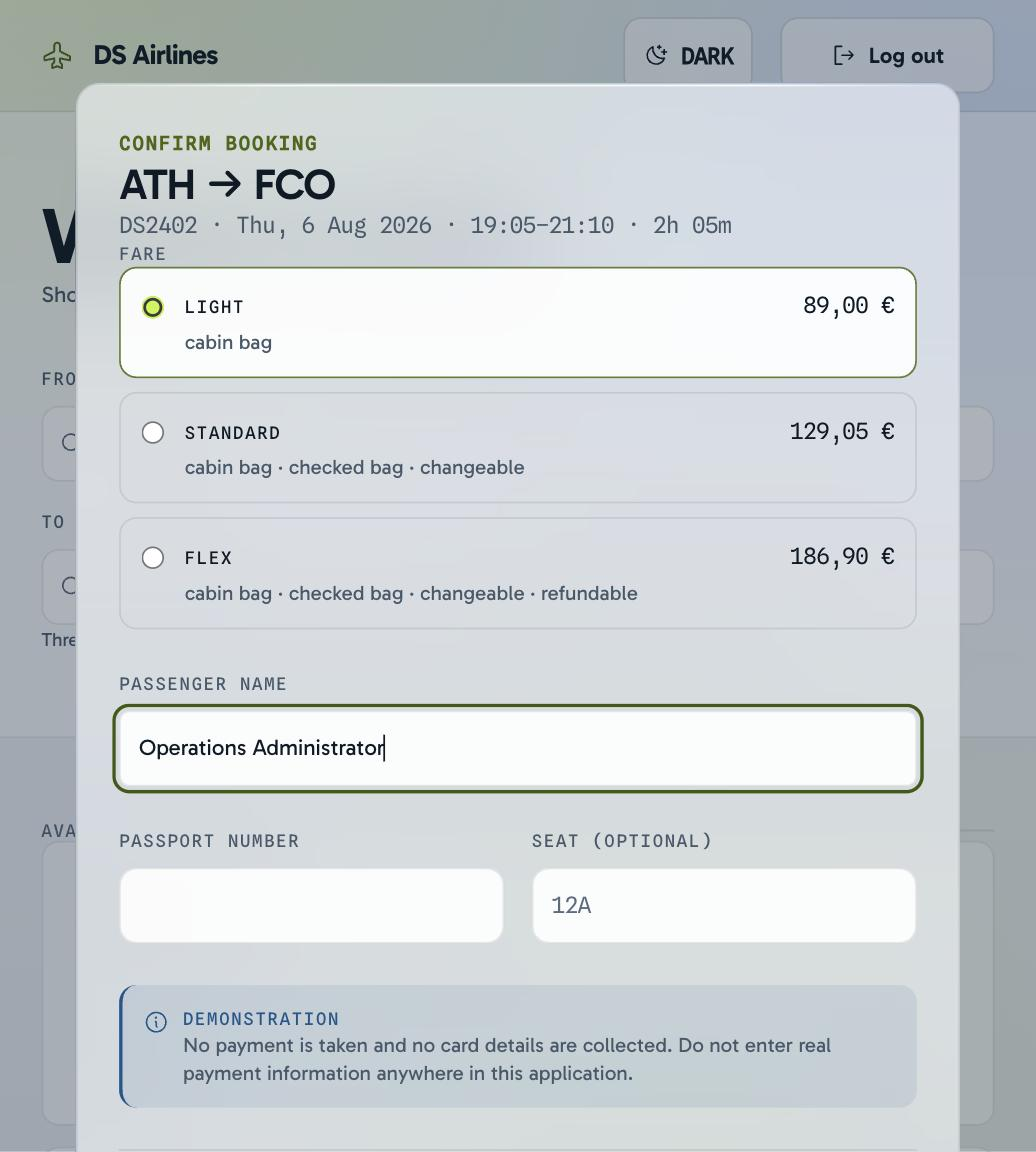
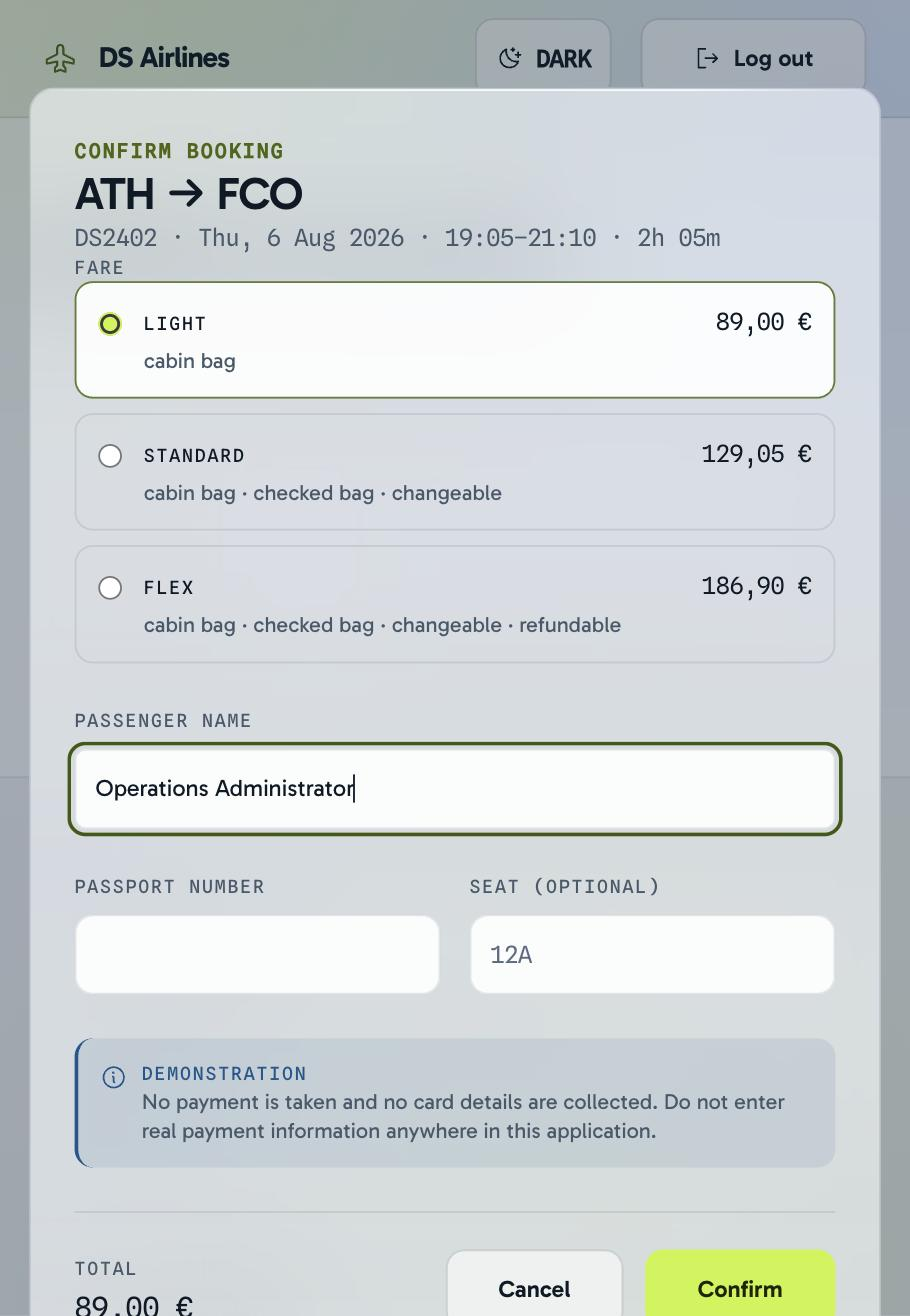
fix(design): call the design system Atlas, fix a fake mobile screenshot
Two problems flagged after the swap:

- Every doc and comment called the design system "VANE" (its vendored
  files' internal codename) instead of "Atlas" (its actual name, and
  the name of the source folder itself). Atlas is now primary
  throughout; the two byte-identical vendored files (tokens.css,
  base.css) still say VANE in their own header comments, which is
  correctly left alone — that's the vendor's file, not this product's
  prose — and both README files now say so explicitly.
- docs/images/mobile-login.jpg was a desktop screenshot: 1568x726,
  pixel-identical to login-light.jpg. The browser automation used to
  capture it reported success but silently never resized the viewport.
  Re-captured all three mobile shots with window.innerWidth verified
  directly rather than trusting the tool's return value; all three are
  now a consistent 910x1316, genuinely narrow.

diff --git a/frontend/src/index.css b/frontend/src/index.css
@@ -1,8 +1,8 @@
 /* ══════════════════════════════════════════════════════════
    DS Airlines — visual layer
 
-   The identity is VANE, aka Atlas (see src/design-system/README.md). This
-   file bridges VANE's semantic tokens into Tailwind's @theme so they are
+   The identity is Atlas (see src/design-system/README.md). This file
+   bridges Atlas's semantic tokens into Tailwind's @theme so they are
    reachable as utilities, and defines the shapes this product repeats.
 
    The token layer itself is imported by main.tsx, before this file, and
@@ -11,7 +11,7 @@
    not wherever Tailwind's @import happens to nest it.
 
    There are no colour, type or spacing values defined here. A hex literal
-   anywhere in this application is a bug — the value belongs in VANE's
+   anywhere in this application is a bug — the value belongs in Atlas's
    tokens.css, and it must be reached through the semantic layer, never a
    primitive (--navy-900, --lime-400, and so on).
    docs/brand/contrast_check.py reads the palette straight out of
@@ -44,7 +44,7 @@
   --color-action-fg: var(--text-on-accent);
   --color-accent: var(--text-accent);
   /* Not --fill-accent: solid chartreuse on chartreuse-adjacent pale grounds
-     measures 1.16:1 in the light theme — invisible as a border. VANE ships
+     measures 1.16:1 in the light theme — invisible as a border. Atlas ships
      --border-accent for exactly this (a lower-alpha accent tint) precisely
      because reaching for the fill token as a line is the mistake its own
      readme calls out. docs/brand/contrast_check.py catches this pair. */
@@ -83,18 +83,18 @@
   --radius-overlay: var(--r-lg);
   --radius-pill: var(--r-pill);
 
-  /* Spacing is deliberately NOT bridged. VANE's grid runs on a 1.75px unit
+  /* Spacing is deliberately NOT bridged. Atlas's grid runs on a 1.75px unit
      (--sp-1 = 3.5px) rather than Tailwind's 4px steps, and aliasing only
      some of it is how AF's equivalent scale drifted out of order here
      before. Utilities use Tailwind's scale; the ds-* classes below reach
-     for VANE's named steps directly via var(--sp-N), which is where the
+     for Atlas's named steps directly via var(--sp-N), which is where the
      difference actually matters. */
 }
 
 @layer components {
   /* Split-panel editorial ground. Full-bleed glass rather than a flat
      fill — the bloom painted behind <body> shows through the blur, which
-     is the effect VANE's readme calls the whole visual premise. */
+     is the effect Atlas's readme calls the whole visual premise. */
   .ds-editorial {
     background: var(--surface-weak);
     backdrop-filter: var(--blur-lg);
@@ -149,7 +149,7 @@
     font-family: var(--f-ui);
     font-size: var(--t-13);
     padding: var(--sp-2) var(--sp-3);
-    /* 44px minimum target — VANE's touch floor. */
+    /* 44px minimum target — Atlas's touch floor. */
     min-height: var(--touch);
     transition: border-color var(--d-1) var(--ease);
   }
@@ -201,7 +201,7 @@
 
 /* Unlayered, deliberately — see design-system/tokens/index.css for why
    base.css's h1/h2/h3 rule is unlayered too. The one large display size
-   VANE defines; used once per view, since the jump from a 10px label
+   Atlas defines; used once per view, since the jump from a 10px label
    straight to 46px is the system's signature. A class selector (0,1,0)
    beats an element selector (0,0,1) with no layer tricks required. */
 .ds-hero {

diff --git a/frontend/src/design-system/overrides.css b/frontend/src/design-system/overrides.css
@@ -1,13 +1,13 @@
 /* ══════════════════════════════════════════════════════════
-   Product-level corrections to the vendored VANE token layer.
+   Product-level corrections to the vendored Atlas token layer.
 
    tokens.css and base.css are byte-identical to source and must stay that
    way, so corrections live here instead. Everything below is a candidate to
-   be upstreamed into VANE; when it is, delete it from this file.
+   be upstreamed into Atlas; when it is, delete it from this file.
 
-   VANE's own readme measures its status-text pairs against each colour's
+   Atlas's own readme measures its status-text pairs against each colour's
    *own* tint background, same as this file does — but the measurements
-   there were taken at the tint alphas VANE ships, which land three status
+   there were taken at the tint alphas Atlas ships, which land three status
    pairs under AA once actually composited in this product's dark or light
    theme (docs/brand/contrast_check.py catches this in CI). Each fix below
    only lowers the tint's alpha, not the text colour — a paler background
@@ -18,19 +18,19 @@
    ══════════════════════════════════════════════════════════ */
 
 [data-theme="dark"] {
-  /* VANE: rgba(255, 107, 107, 0.13) under --text-danger (#FF6B6B) measures
+  /* Atlas: rgba(255, 107, 107, 0.13) under --text-danger (#FF6B6B) measures
      3.73:1 on the cancelled badge and error banners — under the 4.5:1 AA
      floor. --red-400 is lighter than the ground it sits on, so a *fainter*
      tint (closer to --ground) raises contrast rather than a stronger one.
      Lowered to 0.06 for 4.78:1. */
   --tint-danger: rgba(255, 107, 107, 0.06);
 
-  /* VANE: rgba(127, 196, 255, 0.13) under --text-info (#7FC4FF) measures
+  /* Atlas: rgba(127, 196, 255, 0.13) under --text-info (#7FC4FF) measures
      4.48:1 on the booking dialog's demonstration notice — just under AA.
      Same direction as above: lowered to 0.10 for 5.10:1. */
   --tint-info: rgba(127, 196, 255, 0.10);
 
-  /* VANE: rgba(212, 255, 79, 0.34) measures 3.05:1 against a glass panel
+  /* Atlas: rgba(212, 255, 79, 0.34) measures 3.05:1 against a glass panel
      (the selected-fare card sits inside the booking dialog, itself a glass
      panel) — technically over the 3:1 floor for SC 1.4.11, but by 0.05
      with no room for a rounding difference. Raised to 0.40 for 3.50:1. */
@@ -38,13 +38,13 @@
 }
 
 [data-theme="light"] {
-  /* VANE: rgba(16, 121, 75, 0.12) under --text-success (#10794B) measures
+  /* Atlas: rgba(16, 121, 75, 0.12) under --text-success (#10794B) measures
      4.50:1 on the confirmed booking badge — right at the floor, not over
      it. Lowered to 0.09 for 4.62:1, keeping headroom rather than shipping a
      value CI would flag on the next rounding difference. */
   --tint-success: rgba(16, 121, 75, 0.09);
 
-  /* VANE: rgba(120, 160, 10, 0.42) measures 1.37:1 against the page ground
+  /* Atlas: rgba(120, 160, 10, 0.42) measures 1.37:1 against the page ground
      and 1.45:1 against a glass panel — the selected-fare card's border is
      close to invisible in the light theme, an SC 1.4.11 failure. The base
      hue is too pale to reach 3:1 at any alpha against a ground this light

diff --git a/frontend/src/context/ThemeContext.tsx b/frontend/src/context/ThemeContext.tsx
@@ -13,13 +13,13 @@ const ThemeContext = createContext<ThemeContextType | undefined>(undefined);
 const STORAGE_KEY = 'ds-theme';
 
 /**
- * VANE ships both themes token-complete and defaults to dark. Nothing
+ * Atlas ships both themes token-complete and defaults to dark. Nothing
  * exposed a switch, so the light theme was unreachable — and unreachable
  * styling is where accessibility regressions hide, which is exactly what
  * docs/brand/contrast_check.py checks for.
  *
  * Resolution order: an explicit stored choice, then the operating system's
- * preference, then VANE's dark default.
+ * preference, then Atlas's dark default.
  */
 const resolveInitialTheme = (): Theme => {
   const stored = localStorage.getItem(STORAGE_KEY);
@@ -31,7 +31,7 @@ export const ThemeProvider = ({ children }: { children: ReactNode }) => {
   const [theme, setTheme] = useState<Theme>(resolveInitialTheme);
 
   useEffect(() => {
-    // VANE's tokens.css keys the light palette off [data-theme="light"] and
+    // Atlas's tokens.css keys the light palette off [data-theme="light"] and
     // treats anything else as dark, but the attribute is set explicitly in
     // both directions so the state is legible in the DOM.
     document.documentElement.dataset.theme = theme;

diff --git a/frontend/src/pages/Dashboard.tsx b/frontend/src/pages/Dashboard.tsx
@@ -153,7 +153,7 @@ const Dashboard = () => {
         </div>
       </nav>
 
-      {/* Search. Glass over the bloom, per VANE. */}
+      {/* Search. Glass over the bloom, per Atlas. */}
       <header className="ds-editorial border-b border-hairline">
         <div className="max-w-7xl mx-auto px-6 py-12">
           <h1 className="ds-hero">
@@ -283,7 +283,7 @@ const Dashboard = () => {
                             {cheapest === null ? '—' : formatFare(cheapest)}
                           </span>
                         </div>
-                        {/* Secondary, deliberately. VANE allows one primary
+                        {/* Secondary, deliberately. Atlas allows one primary
                             action per view, and a list of N flights would
                             otherwise put N chartreuse buttons on screen —
                             which reads as N equally urgent choices and

diff --git a/frontend/src/context/ThemeContext.test.tsx b/frontend/src/context/ThemeContext.test.tsx
@@ -52,7 +52,7 @@ describe('ThemeProvider', () => {
       expect(screen.getByTestId('theme')).toHaveTextContent('light');
     });
 
-    it("falls back to VANE's dark default when the OS expresses no preference", () => {
+    it("falls back to Atlas's dark default when the OS expresses no preference", () => {
       prefersLight(false);
       renderProbe();
       expect(screen.getByTestId('theme')).toHaveTextContent('dark');
@@ -70,7 +70,7 @@ describe('ThemeProvider', () => {
     it('sets data-theme on the document element', () => {
       prefersLight(true);
       renderProbe();
-      // VANE's tokens.css keys the light palette off [data-theme="light"].
+      // Atlas's tokens.css keys the light palette off [data-theme="light"].
       expect(document.documentElement.dataset.theme).toBe('light');
     });
 

diff --git a/frontend/src/components/ThemeToggle.tsx b/frontend/src/components/ThemeToggle.tsx
@@ -2,13 +2,13 @@ import { Sun, MoonStars } from '@phosphor-icons/react';
 import { useTheme } from '../context/ThemeContext';
 
 /**
- * Switches between VANE's dark and light themes.
+ * Switches between Atlas's dark and light themes.
  *
  * Icon-only, so it carries an aria-label and a title rather than relying on
  * the glyph. The label states the action ("Switch to light") rather than the
  * current state, which is what a screen-reader user needs to hear from a
  * button. The icon is decorative and repeats what the label already says,
- * per VANE's iconography rule that a glyph never carries meaning alone.
+ * per Atlas's iconography rule that a glyph never carries meaning alone.
  */
 const ThemeToggle = () => {
   const { theme, toggle } = useTheme();

diff --git a/frontend/src/design-system/tokens/fonts.css b/frontend/src/design-system/tokens/fonts.css
@@ -1,8 +1,8 @@
-/* VANE — webfonts. Gabarito (UI) and Spline Sans Mono (numerics), self-hosted
+/* Atlas — webfonts. Gabarito (UI) and Spline Sans Mono (numerics), self-hosted
    via @fontsource rather than the CDN links in the vendor readme's "Using
    it" section — the vendor's own "Open" notes flag CDN fonts as something to
    fix "before production", so this project does it up front. Only the
-   weights VANE's tokens.css declares (400/500/600/700 UI, 400/500 mono) are
+   weights Atlas's tokens.css declares (400/500/600/700 UI, 400/500 mono) are
    pulled in. Family names match --f-ui / --f-num in tokens.css exactly. */
 @import "@fontsource/gabarito/400.css";
 @import "@fontsource/gabarito/500.css";

diff --git a/frontend/vitest.config.ts b/frontend/vitest.config.ts
@@ -11,7 +11,7 @@ export default defineConfig({
     // different `test` and must not be collected here.
     include: ['src/**/*.test.{ts,tsx}'],
     exclude: ['e2e/**', 'node_modules/**', 'dist/**'],
-    // The VANE token layer is 250+ lines of CSS custom properties that jsdom
+    // The Atlas token layer is 250+ lines of CSS custom properties that jsdom
     // cannot evaluate and no assertion here depends on. Colour and contrast
     // are covered by docs/brand/contrast_check.py against the real files.
     css: false,

diff --git a/frontend/e2e/interface.spec.ts b/frontend/e2e/interface.spec.ts
@@ -139,7 +139,7 @@ test.describe('accessibility', () => {
       const s = getComputedStyle(el);
       return { width: s.outlineWidth, style: s.outlineStyle };
     });
-    // VANE makes the focus ring non-negotiable; it is the only way a keyboard
+    // Atlas makes the focus ring non-negotiable; it is the only way a keyboard
     // user can tell where they are.
     expect(outline.style).not.toBe('none');
     expect(parseFloat(outline.width)).toBeGreaterThan(0);

diff --git a/frontend/src/components/BookingDialog.test.tsx b/frontend/src/components/BookingDialog.test.tsx
@@ -244,7 +244,7 @@ describe('BookingDialog', () => {
 
     it('offers exactly one primary action', () => {
       setup();
-      // VANE allows one primary action per view; Confirm is it.
+      // Atlas allows one primary action per view; Confirm is it.
       const primaries = document.querySelectorAll('.ds-action--primary');
       expect(primaries).toHaveLength(1);
       expect(primaries[0]).toHaveTextContent(/confirm/i);

diff --git a/frontend/src/pages/Login.tsx b/frontend/src/pages/Login.tsx
@@ -26,7 +26,7 @@ const Login = () => {
 
   return (
     <div className="flex flex-col md:flex-row min-h-screen">
-      {/* Editorial side. Glass over the bloom, per VANE. */}
+      {/* Editorial side. Glass over the bloom, per Atlas. */}
       <div className="ds-editorial hidden md:flex flex-col justify-between w-1/2 p-12 border-r border-hairline">
         <span className="ds-eyebrow">DS Airlines</span>
         <div>

diff --git a/frontend/src/pages/Dashboard.test.tsx b/frontend/src/pages/Dashboard.test.tsx
@@ -142,7 +142,7 @@ describe('Dashboard', () => {
       mockGet();
       await renderDashboard();
       await screen.findByText('ATH → LHR');
-      // VANE allows one primary per view; N flights must not mean N of them.
+      // Atlas allows one primary per view; N flights must not mean N of them.
       expect(document.querySelectorAll('.ds-action--primary')).toHaveLength(0);
     });
 
